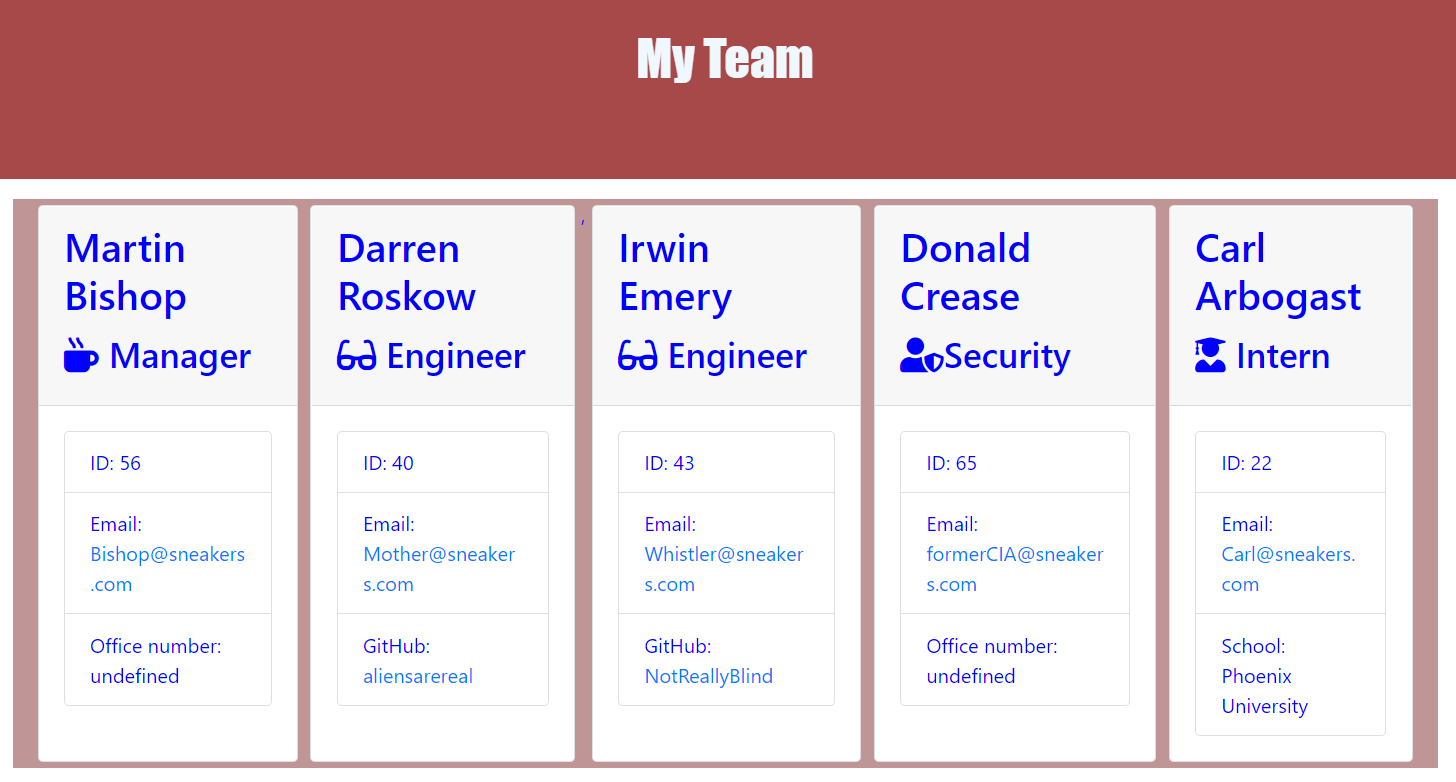
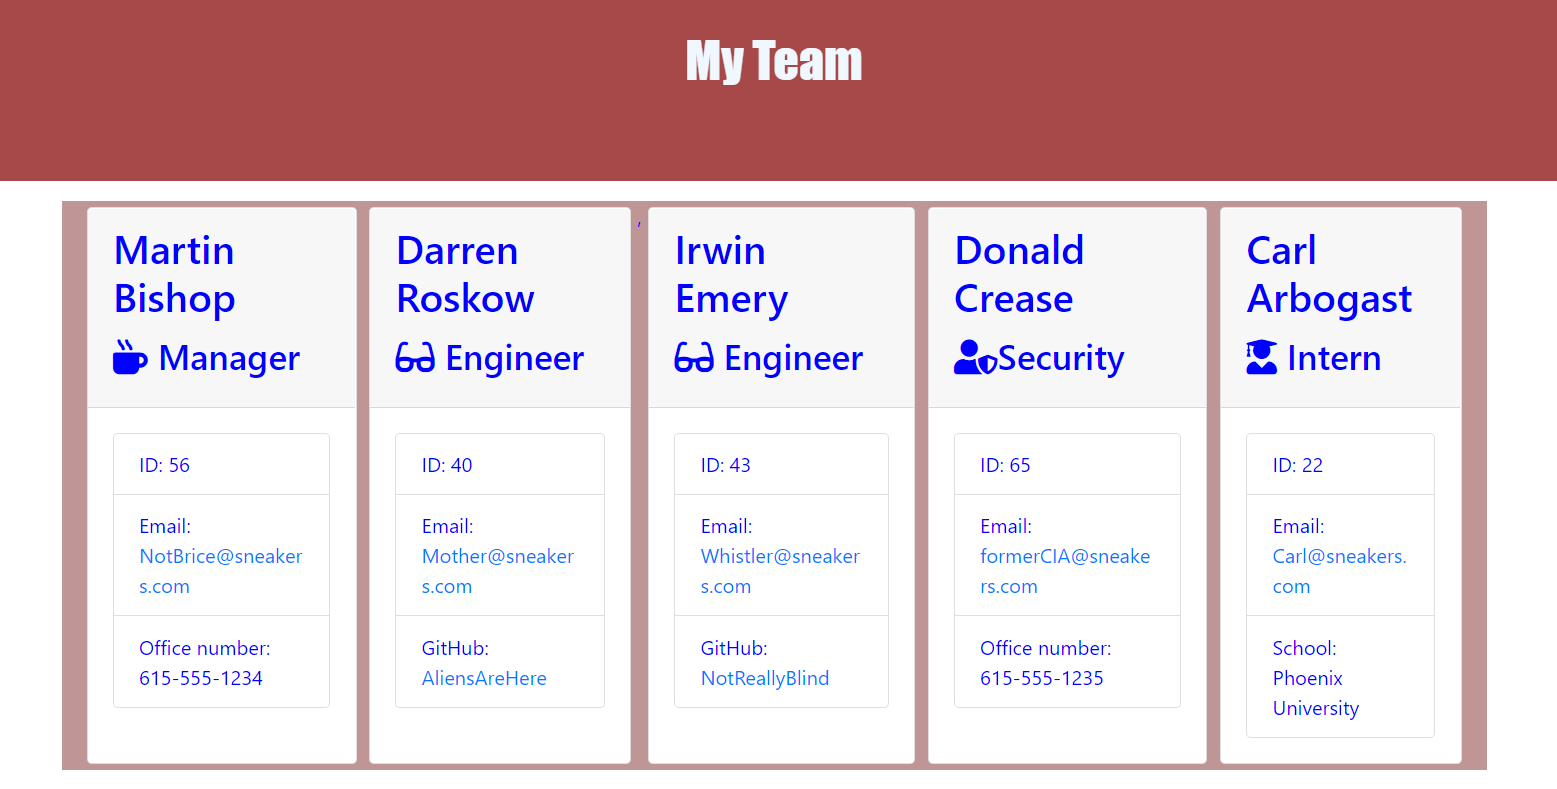
Sneakers is ready to help

Changed region(s): [[0.0, 0.2455, 0.989, 0.9821], [0.4327, 0.0307, 0.5563, 0.1228]]

diff --git a/Develop/output/team.html b/Develop/output/team.html
@@ -31,8 +31,8 @@
     <div class="card-body">
         <ul class="list-group">
             <li class="list-group-item">ID: 56</li>
-            <li class="list-group-item">Email: <a href="mailto:Bishop@sneakers.com">Bishop@sneakers.com</a></li>
-            <li class="list-group-item">Office number: undefined</li>
+            <li class="list-group-item">Email: <a href="mailto:NotBrice@sneakers.com">NotBrice@sneakers.com</a></li>
+            <li class="list-group-item">Office number: 615-555-1234</li>
         </ul>
     </div>
 </div>
@@ -45,7 +45,7 @@
         <ul class="list-group">
             <li class="list-group-item">ID: 40</li>
             <li class="list-group-item">Email: <a href="mailto:Mother@sneakers.com">Mother@sneakers.com</a></li>
-            <li class="list-group-item">GitHub: <a href="https://github.com/aliensarereal" target="_blank" rel="noopener noreferrer">aliensarereal</a></li>
+            <li class="list-group-item">GitHub: <a href="https://github.com/AliensAreHere" target="_blank" rel="noopener noreferrer">AliensAreHere</a></li>
         </ul>
     </div>
 </div>
@@ -71,7 +71,7 @@
         <ul class="list-group">
             <li class="list-group-item">ID: 65</li>
             <li class="list-group-item">Email: <a href="mailto:formerCIA@sneakers.com">formerCIA@sneakers.com</a></li>
-            <li class="list-group-item">Office number: undefined</li>
+            <li class="list-group-item">Office number: 615-555-1235</li>
         </ul>
     </div>
 </div><div class="card employee-card">

diff --git a/Develop/app.js b/Develop/app.js
@@ -38,7 +38,7 @@ function sneakers() {
         },
         {
           type: "input",
-          name: "managerOffice",
+          name: "officeNumber",
           message: "What is the manager's office phone number?",
         },
       ])
@@ -138,7 +138,7 @@ function sneakers() {
         {
           type: "input",
           message: "What is the phone number for security?",
-          name: "managerOffice",
+          name: "officeNumber",
         },
       ])
       //engineer's info results

diff --git a/README.md b/README.md
@@ -18,7 +18,7 @@
 
 # Demo
   Here is the link to the video demo; 
-  https://drive.google.com/file/d/1TSW5ZmY8ocDGQhTJuQsPlNZHjgwiUdYP/view
+  https://drive.google.com/file/d/1hDUPcYKdOlilKPwUzszTX3mcxr-QxtDp/view
 
 # Github_Info
   You can find the Employee Summary on github at https://github.com/JoeWills615/Employee_Summary
@@ -26,14 +26,10 @@
 # Email_Address
   JoeWills615@gmail.com
 
-# Project_Images
+# Project_Image
 
-  <img src="./images/sneakers_01.PNG>
+  <img src="./Develop/images/sneakers_01.PNG">
 
-  <br/>
-  <br/>
-
-  <img src="./images/sneaker_01.PNG">
   
   # Latest_Case
   To see the team in action, check out Sneakers here;
